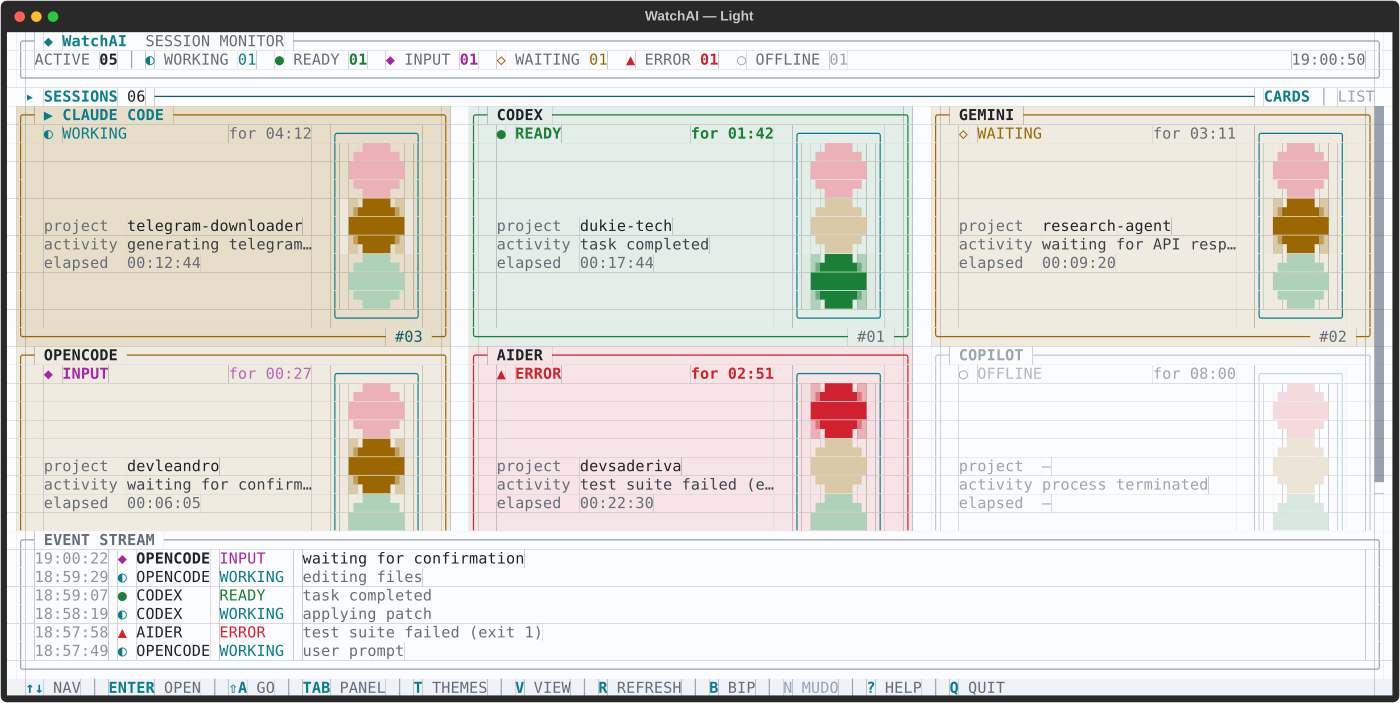
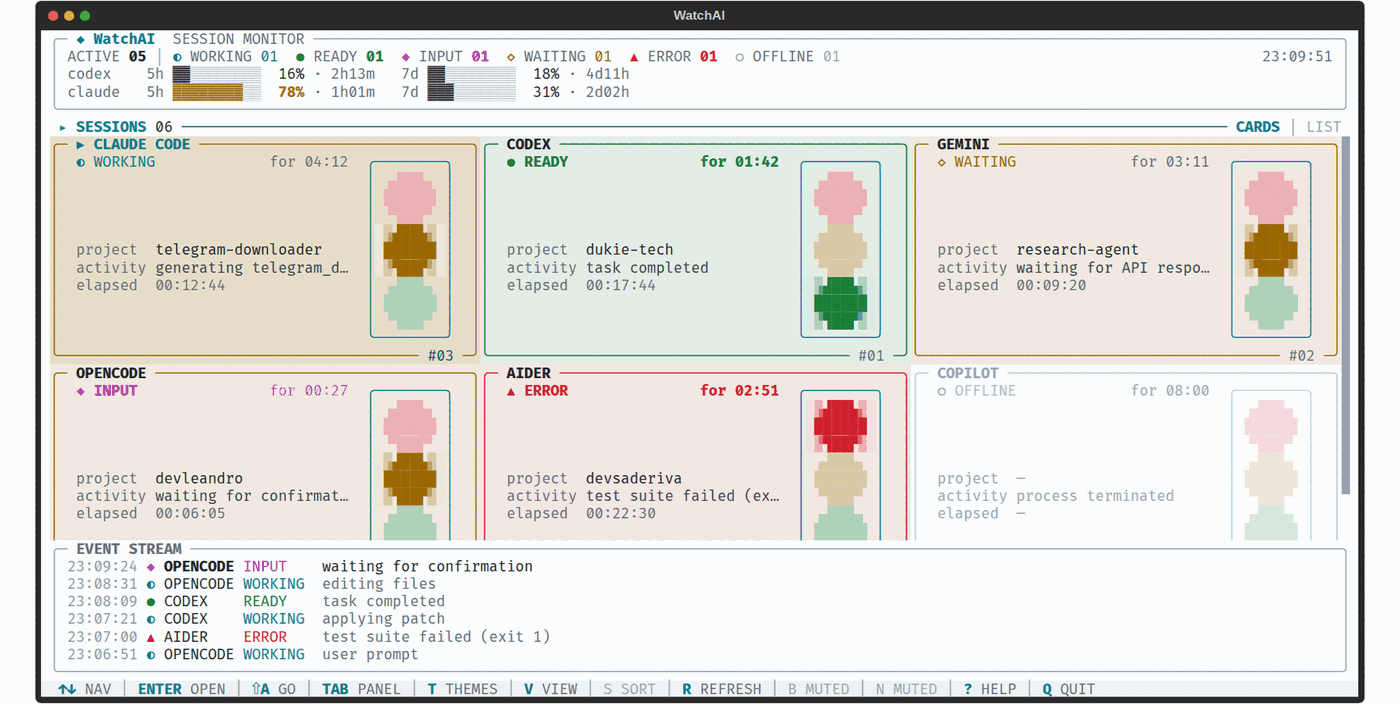
feat: a landing mostra o consumo, e as capturas voltam a dizer a verdade
**A página.** Seção nova, `03 / CONSUMO`, entre Recursos e Experimente: as duas
janelas do plano com barra, percentual e quanto falta para zerar — desenhadas em
HTML, não em imagem, para ficarem nítidas em qualquer tela. Três cartões dizem o
que é preciso saber antes de instalar: o codex não pede nada, o Claude Code pede
um comando, e nada ali é estimado. O bloco de instalação ganhou o passo 03,
`watchai --install-statusline`, marcado como opcional e com a garantia de que
statusline existente não se perde. A navegação e a descrição da página
acompanham.

**As capturas.** Todas as quatro que mostram o cabeçalho estavam velhas:
`screenshot.png` (landing, README e card de compartilhamento), as oito de tema, o
mosaico `themes.png` e o `og-card.png`. Refeitas — a principal com sessões reais,
as de tema no mock. Duas linhas a mais de cabeçalho custavam duas linhas de card,
então a captura passou de 150×36 para 150×38 e a composição voltou a ser a de
antes.

**Um defeito que a captura revelou:** a barra saía inteira numa cor só, e `▓`
contra `░` é distinção fraca demais — no PNG os dois viravam o mesmo bloco.
Agora o cheio leva a cor do uso e a calha leva a cor de borda. Vale para a TUI e
para a página.

**E o formato do Claude Code deixou de ser suposição.** Ligada a statusline aqui
(v2.1.278), o que ele manda é `five_hour`/`seven_day` com `used_percentage` e
`resets_at` — **sem `window_minutes` nenhum**. O reconhecimento de janela pelo
[…]

diff --git a/docs/index.html b/docs/index.html
@@ -4,7 +4,7 @@
     <meta charset="utf-8">
     <meta name="viewport" content="width=device-width, initial-scale=1">
     <meta name="theme-color" content="#0b111b">
-    <meta name="description" content="Conheça o WatchAI: um painel local que detecta sessões de IA em execução no seu terminal. Instale com pipx e rode em Linux, macOS ou Windows.">
+    <meta name="description" content="Conheça o WatchAI: um painel local que detecta sessões de IA em execução no seu terminal e mostra quanto já foi gasto das janelas de limite do plano. Instale com pipx e rode em Linux, macOS ou Windows.">
     <meta property="og:type" content="website">
     <meta property="og:title" content="WatchAI — suas sessões de IA em uma tela">
     <meta property="og:description" content="Um painel de terminal para acompanhar sessões locais de IA. Conheça os recursos e saiba como instalar.">
@@ -29,6 +29,7 @@
         <nav aria-label="Navegação principal">
           <a href="#visao-geral">Visão geral</a>
           <a href="#recursos">Recursos</a>
+          <a href="#consumo">Consumo</a>
           <a href="#instalacao">Instalação</a>
         </nav>
         <a class="header-github" href="https://github.com/LeandroDukievicz/WatchAI" target="_blank" rel="noopener noreferrer">Ver no GitHub <span aria-hidden="true">↗</span></a>
@@ -107,12 +108,31 @@
         </div>
       </section>
 
+
+      <section class="limits-section container" id="consumo" aria-labelledby="limits-title">
+        <div class="section-heading">
+          <div><span class="section-kicker">03 / CONSUMO</span><h2 id="limits-title">Quanto já foi gasto.<br><span>Sem adivinhar.</span></h2></div>
+          <p>As duas janelas de limite do plano — 5 horas e 7 dias — no alto da tela, com quanto falta para cada uma zerar.</p>
+        </div>
+        <figure class="limits-panel">
+          <div class="preview-bar"><span class="window-dots" aria-hidden="true"><i></i><i></i><i></i></span><span>cabeçalho do watchai</span><span>NÚMERO LIDO, NÃO ESTIMADO</span></div>
+          <pre role="img" aria-label="Duas linhas de limite no cabeçalho: codex com 16 por cento da janela de 5 horas e 18 por cento da de 7 dias; claude com 78 por cento da janela de 5 horas, em amarelo, e 31 por cento da de 7 dias."><span class="l-name">codex </span>  <span class="l-win">5h</span> <span class="l-ok">▓▓</span><span class="l-trough">░░░░░░░░</span> <span class="l-ok">16%</span> <span class="l-dim">· 2h14m</span>   <span class="l-win">7d</span> <span class="l-ok">▓▓</span><span class="l-trough">░░░░░░░░</span> <span class="l-ok">18%</span> <span class="l-dim">· 4d12h</span>
+<span class="l-name">claude</span>  <span class="l-win">5h</span> <span class="l-hot">▓▓▓▓▓▓▓▓</span><span class="l-trough">░░</span> <span class="l-hot">78%</span> <span class="l-dim">· 1h01m</span>   <span class="l-win">7d</span> <span class="l-ok">▓▓▓</span><span class="l-trough">░░░░░░░</span> <span class="l-ok">31%</span> <span class="l-dim">· 2d02h</span></pre>
+          <figcaption>Cinza até 75%, amarelo a partir daí, vermelho a partir de 90% — cor é para estado, e um limite no fim é um estado.</figcaption>
+        </figure>
+        <div class="limits-points">
+          <article><span class="feature-icon green" aria-hidden="true">◆</span><h3>Codex: nada a fazer</h3><p>O número já está no seu disco — no mesmo arquivo de sessão que o WatchAI lê para saber o estado. Instalou, apareceu.</p></article>
+          <article><span class="feature-icon cyan" aria-hidden="true">›</span><h3>Claude Code: um comando</h3><p>Ele não grava esse dado em arquivo nenhum; só entrega a scripts de <em>statusline</em>. O <code>watchai --install-statusline</code> liga essa ponta — e <strong>se você já tem uma statusline, ela não é perdida</strong>: o WatchAI mostra a saída da sua.</p></article>
+          <article><span class="feature-icon amber" aria-hidden="true">!</span><h3>Sem número, sem barra</h3><p>Nada é estimado a partir de tokens. Janela que já virou aparece com um traço em vez de um percentual velho, e dado medido há horas mostra a própria idade.</p></article>
+        </div>
+      </section>
+
       <section class="install-section" id="instalacao" aria-labelledby="install-title">
         <div class="container install-layout">
-          <div class="install-copy"><span class="section-kicker">03 / EXPERIMENTE</span><h2 id="install-title">Um comando.<br><span>Está instalado.</span></h2><p>Em qualquer computador Linux, macOS ou Windows que já tenha pipx, Git e Python 3.10 ou superior, execute o primeiro comando ao lado. O pipx baixa o WatchAI, cria um ambiente isolado e disponibiliza <code>watchai</code> no terminal.</p><p class="install-caveat">Também é necessário ter acesso à internet durante a instalação e um terminal com suporte a Unicode. Se <code>watchai</code> não aparecer depois de instalar, rode <code>pipx ensurepath</code> e abra um terminal novo. Até a publicação no PyPI, o pacote é obtido diretamente deste repositório.</p></div>
+          <div class="install-copy"><span class="section-kicker">04 / EXPERIMENTE</span><h2 id="install-title">Um comando.<br><span>Está instalado.</span></h2><p>Em qualquer computador Linux, macOS ou Windows que já tenha pipx, Git e Python 3.10 ou superior, execute o primeiro comando ao lado. O pipx baixa o WatchAI, cria um ambiente isolado e disponibiliza <code>watchai</code> no terminal. O terceiro comando é opcional e só interessa a quem usa o Claude Code.</p><p class="install-caveat">Também é necessário ter acesso à internet durante a instalação e um terminal com suporte a Unicode. Se <code>watchai</code> não aparecer depois de instalar, rode <code>pipx ensurepath</code> e abra um terminal novo. Até a publicação no PyPI, o pacote é obtido diretamente deste repositório.</p></div>
           <div class="terminal" aria-label="Comandos para instalar e executar o WatchAI">
             <div class="terminal-top"><span class="window-dots" aria-hidden="true"><i></i><i></i><i></i></span><span>terminal</span><span>Linux · macOS · Windows</span></div>
-            <div class="terminal-body"><p class="step-label">01 <span>COLE ESTE ÚNICO COMANDO PARA INSTALAR</span></p><div class="command-line"><pre><code>pipx install git+https://github.com/LeandroDukievicz/WatchAI.git</code></pre><button class="copy-command" type="button" aria-label="Copiar comando de instalação" title="Copiar comando"><svg class="copy-icon" viewBox="0 0 24 24" aria-hidden="true"><rect x="8" y="8" width="11" height="11" rx="2"></rect><path d="M16 8V6a2 2 0 0 0-2-2H6a2 2 0 0 0-2 2v8a2 2 0 0 0 2 2h2"></path></svg><svg class="check-icon" viewBox="0 0 24 24" aria-hidden="true"><path d="m5 12 4 4L19 6"></path></svg></button></div><p class="step-label">02 <span>DEPOIS, ABRA O WATCHAI</span></p><div class="command-line"><pre><code>watchai</code></pre><button class="copy-command" type="button" aria-label="Copiar comando para abrir o WatchAI" title="Copiar comando"><svg class="copy-icon" viewBox="0 0 24 24" aria-hidden="true"><rect x="8" y="8" width="11" height="11" rx="2"></rect><path d="M16 8V6a2 2 0 0 0-2-2H6a2 2 0 0 0-2 2v8a2 2 0 0 0 2 2h2"></path></svg><svg class="check-icon" viewBox="0 0 24 24" aria-hidden="true"><path d="m5 12 4 4L19 6"></path></svg></button></div></div>
+            <div class="terminal-body"><p class="step-label">01 <span>COLE ESTE ÚNICO COMANDO PARA INSTALAR</span></p><div class="command-line"><pre><code>pipx install git+https://github.com/LeandroDukievicz/WatchAI.git</code></pre><button class="copy-command" type="button" aria-label="Copiar comando de instalação" title="Copiar comando"><svg class="copy-icon" viewBox="0 0 24 24" aria-hidden="true"><rect x="8" y="8" width="11" height="11" rx="2"></rect><path d="M16 8V6a2 2 0 0 0-2-2H6a2 2 0 0 0-2 2v8a2 2 0 0 0 2 2h2"></path></svg><svg class="check-icon" viewBox="0 0 24 24" aria-hidden="true"><path d="m5 12 4 4L19 6"></path></svg></button></div><p class="step-label">02 <span>DEPOIS, ABRA O WATCHAI</span></p><div class="command-line"><pre><code>watchai</code></pre><button class="copy-command" type="button" aria-label="Copiar comando para abrir o WatchAI" title="Copiar comando"><svg class="copy-icon" viewBox="0 0 24 24" aria-hidden="true"><rect x="8" y="8" width="11" height="11" rx="2"></rect><path d="M16 8V6a2 2 0 0 0-2-2H6a2 2 0 0 0-2 2v8a2 2 0 0 0 2 2h2"></path></svg><svg class="check-icon" viewBox="0 0 24 24" aria-hidden="true"><path d="m5 12 4 4L19 6"></path></svg></button></div><p class="step-label">03 <span>OPCIONAL · SÓ PARA QUEM USA O CLAUDE CODE</span></p><div class="command-line"><pre><code>watchai --install-statusline</code></pre><button class="copy-command" type="button" aria-label="Copiar comando para ligar o consumo do Claude Code" title="Copiar comando"><svg class="copy-icon" viewBox="0 0 24 24" aria-hidden="true"><rect x="8" y="8" width="11" height="11" rx="2"></rect><path d="M16 8V6a2 2 0 0 0-2-2H6a2 2 0 0 0-2 2v8a2 2 0 0 0 2 2h2"></path></svg><svg class="check-icon" viewBox="0 0 24 24" aria-hidden="true"><path d="m5 12 4 4L19 6"></path></svg></button></div><p class="terminal-note">Liga a barra de consumo do Claude Code. Não sobrescreve a statusline que você já tiver — desfaz com <code>watchai --uninstall-statusline</code>. O codex não precisa disso.</p></div>
           </div>
         </div>
       </section>

diff --git a/docs/site.css b/docs/site.css
@@ -7,3 +7,6 @@
 @media(max-width:760px){.container{width:min(100% - 32px,560px)}.header-inner{min-height:70px;gap:15px}.header-inner nav{display:none}.header-github{margin-left:auto;padding:9px 11px;font-size:11px}.hero{display:flex;flex-direction:column;align-items:stretch;min-height:0;padding-block:72px 40px;gap:5px}.hero h1{font-size:clamp(49px,11vw,72px)}.hero-art{height:390px;width:100%;transform:scale(.74);margin-block:-25px}.orbit-two{width:450px;height:450px}.hero-meta{gap:10px 16px}.section-heading{display:block}.section-heading>p{margin-top:15px}.preview-section,.features,.install-section{padding-block:70px}.feature-grid{gap:12px}.themes-showcase .themes-copy{display:block}.themes-showcase .themes-copy p{margin-top:15px}.theme-gallery{grid-template-columns:1fr}.install-layout{display:block}.terminal{margin-top:40px}.closing{padding-block:75px}.footer-inner{min-height:140px;flex-wrap:wrap;justify-content:space-between;gap:10px}.site-footer p{order:3;flex-basis:100%;margin:0 0 22px}}
 @media(max-width:500px){.brand{font-size:19px}.brand-mark{width:42px;height:32px}.hero-lockup img{width:46px;height:35px}.hero-lockup .wordmark{font-size:33px}.hero-art{transform:scale(.65);margin-block:-55px}.hero-actions{align-items:stretch}.hero-actions .button{flex:1 1 100%}.preview-bar>span:last-child{display:none}.truth-note{align-items:flex-start;padding:15px}.feature-grid{grid-template-columns:1fr}.feature-card{min-height:auto}.themes-panel,.themes-showcase{padding:20px}.theme-shot figcaption{align-items:flex-start;flex-direction:column;gap:4px}.theme-shot figcaption span{text-align:left}.terminal-body{padding:22px 18px 28px}.terminal pre{font-size:11px}.install-copy h2{font-size:47px}}
 @media(prefers-reduced-motion:reduce){html{scroll-behavior:auto}*,*:before,*:after{transition-duration:.01ms!important;animation-duration:.01ms!important}}
+.limits-section{padding-block:0 105px}.limits-section h2 span{color:var(--cyan)}.limits-panel{overflow:hidden;border:1px solid #395165;border-radius:12px;background:#080c13;box-shadow:0 24px 70px #0008}.limits-panel pre{overflow-x:auto;margin:0;padding:30px 26px;color:var(--text);font:14px/2.1 ui-monospace,SFMono-Regular,Consolas,"Liberation Mono",monospace;white-space:pre}.limits-panel .l-name{color:#8fa9bc}.limits-panel .l-win{color:#8fa9bc}.limits-panel .l-dim{color:#6f8a9d}.limits-panel .l-ok{color:var(--text)}.limits-panel .l-trough{color:#2f4a5f}.limits-panel .l-hot{color:var(--amber);font-weight:700}.limits-panel figcaption{padding:13px 18px;color:#8fa9bc;font-size:12px;border-top:1px solid #27394b}.limits-points{display:grid;grid-template-columns:repeat(3,1fr);gap:14px;margin-top:20px}.limits-points article{padding:24px;border:1px solid var(--line);border-radius:11px;background:linear-gradient(145deg,#152332,#0e1824)}.limits-points h3{font-size:16px;letter-spacing:-.025em;margin-top:20px}.limits-points p{font-size:13px;line-height:1.65;color:var(--muted);margin-top:10px}.limits-points code,.terminal-note code{padding:1px 5px;border-radius:4px;background:#1b3442;color:var(--cyan);font:12px ui-monospace,SFMono-Regular,Consolas,monospace}.terminal-note{margin-top:22px;color:#8da9bb;font-size:12px;line-height:1.65}
+@media(max-width:1000px){.limits-points{grid-template-columns:1fr}.limits-panel pre{font-size:12px;padding:22px 18px}}
+@media(max-width:500px){.limits-panel pre{font-size:10px;padding:18px 14px}}

diff --git a/src/watchai/widgets/header.py b/src/watchai/widgets/header.py
@@ -48,17 +48,23 @@ LARGURA_COMPLETA = 96
 LARGURA_MEDIA = 58
 
 
-def barra(usado: float, largura: int = BARRA) -> str:
-    """`▓▓░░░░░░░░` — o percentual em blocos.
+def blocos(usado: float, largura: int = BARRA) -> tuple[int, int]:
+    """Quantos blocos cheios e quantos vazios, para este percentual.
 
     Qualquer uso acima de zero acende **pelo menos um** bloco: barra vazia com
     número diferente de zero ao lado é a barra mentindo. Quem dá a precisão é o
     número; a barra dá a ordem de grandeza.
     """
     if usado <= 0:
-        return VAZIO * largura
+        return 0, largura
     cheios = max(1, min(largura, round(usado / 100 * largura)))
-    return CHEIO * cheios + VAZIO * (largura - cheios)
+    return cheios, largura - cheios
+
+
+def barra(usado: float, largura: int = BARRA) -> str:
+    """`▓▓░░░░░░░░` — o percentual em blocos, como texto."""
+    cheios, vazios = blocos(usado, largura)
+    return CHEIO * cheios + VAZIO * vazios
 
 
 def cor_do_uso(usado: float) -> str:
@@ -208,7 +214,12 @@ class AppHeader(Widget):
                 continue
             cor = cor_do_uso(janela.usado)
             if largura:
-                linha.append(barra(janela.usado, largura), Style(color=cor))
+                # Cheio e vazio em cores diferentes. Só o glifo (▓ contra ░)
+                # separando os dois é distinção fraca: com a mesma cor, a barra
+                # vira um bloco só — visível na captura do README antes disto.
+                cheios, vazios = blocos(janela.usado, largura)
+                linha.append(CHEIO * cheios, Style(color=cor))
+                linha.append(VAZIO * vazios, Style(color=palette.line_hi))
                 linha.append(" ")
             linha.append(f"{janela.usado:3.0f}%", Style(color=cor, bold=janela.usado >= APERTA))
             falta = janela.falta(agora)

diff --git a/src/watchai/providers/limits.py b/src/watchai/providers/limits.py
@@ -86,12 +86,16 @@ CAMPOS_USADO = ("used_percent", "used_percentage", "utilization", "used")
 CAMPOS_MINUTOS = ("window_minutes", "window_size_minutes", "window")
 CAMPOS_RESET = ("resets_at", "reset_at", "resets_at_seconds", "resetsAt")
 
-# Tamanho suposto quando o bloco **não** traz `window_minutes`. Quem classifica
-# é sempre o tamanho, e o codex informa o dele; isto é para o Claude Code, cujo
-# campo é novo e do qual o changelog promete só as duas janelas ("5-hour and
-# 7-day windows with `used_percentage` and `resets_at`") — se ele nomear em vez
-# de medir, o nome ainda diz qual é qual. Nome desconhecido e sem tamanho fica
-# de fora: janela que não se sabe medir não vira barra.
+# Tamanho suposto quando o bloco **não** traz `window_minutes`. Deixou de ser
+# precaução e virou o caminho principal do Claude Code: ligada a statusline nesta
+# máquina (2026-09-29, v2.1.278), o que ele manda é
+#
+#     "rate_limits": {"five_hour":  {"used_percentage": 11, "resets_at": 1790749800},
+#                     "seven_day":  {"used_percentage": 26, "resets_at": 1791201600}}
+#
+# — sem `window_minutes` nenhum. Só o codex informa o tamanho. Sem este mapa a
+# barra do Claude não existiria, e falharia calada. Nome desconhecido e sem
+# tamanho continua fora: janela que não se sabe medir não vira barra.
 MINUTOS_POR_NOME = {
     "primary": 300,
     "five_hour": 300,

diff --git a/tests/test_limits.py b/tests/test_limits.py
@@ -170,8 +170,9 @@ def test_o_nome_do_campo_do_claude_tambem_vale():
 
 
 def test_janela_sem_tamanho_e_reconhecida_pelo_nome():
-    """O campo do Claude é novo e o changelog promete só as duas janelas. Se ele
-    nomear em vez de medir, o nome ainda diz qual é qual."""
+    """**É o formato real do Claude Code**, confirmado ao ligar a statusline na
+    v2.1.278: ele manda `five_hour`/`seven_day` sem `window_minutes` nenhum. Sem
+    reconhecer pelo nome, a barra do Claude não existiria — e falharia calada."""
     achado = consumo("claude", {
         "five_hour": {"used_percentage": 8, "resets_at": AGORA + 600},
         "seven_day": {"used_percentage": 31, "resets_at": AGORA + 86400},
@@ -312,6 +313,17 @@ def test_sem_numero_nenhum_a_lista_vem_vazia(tmp_path):
 
 
 # ---- a barra ------------------------------------------------------------------
+
+
+def test_cheio_e_vazio_sao_contados_separados():
+    """A tela pinta os dois com cores diferentes: só o glifo separando ▓ de ░ é
+    distinção fraca demais, e numa captura os dois viram o mesmo bloco."""
+    from watchai.widgets.header import blocos
+
+    assert blocos(0.0) == (0, 10)
+    assert blocos(50.0) == (5, 5)
+    assert blocos(100.0) == (10, 0)
+    assert blocos(0.4) == (1, 9)  # uso acima de zero sempre acende um
 
 
 def test_a_barra_nunca_fica_vazia_com_numero_ao_lado():

diff --git a/MILESTONE.md b/MILESTONE.md
@@ -293,6 +293,12 @@ mudanças de rumo; o que apareceu na implementação está marcado abaixo.
       Claude Code), e a janela sem `window_minutes` é reconhecida pelo nome
       (`primary`/`five_hour`…). Nome desconhecido **e** sem tamanho fica de fora:
       rotular de 5 h o que pode ser de outro tamanho é inventar
+- [x] **O formato do Claude Code, confirmado** em 2026-09-29 ao ligar a
+      statusline (v2.1.278) — era suposição e virou fato:
+      `{"five_hour": {"used_percentage": 11, "resets_at": …}, "seven_day": {…}}`,
+      **sem `window_minutes`**. O reconhecimento por nome deixou de ser precaução
+      e passou a ser o caminho principal: sem ele a barra do Claude não existiria,
+      e falharia calada
 - [x] **Validação de faixa**, já que o número não é conferível: percentual em
       [0, 100], janela positiva e plausível, reset num tempo que existe (aceita
       milissegundos). Reset ruim custa o "zera em", não a barra

diff --git a/README.md b/README.md
@@ -333,7 +333,7 @@ número uma vez por sessão.
 | Agente | De onde | Precisa de você? |
 |---|---|---|
 | **codex** | do mesmo `rollout-*.jsonl` que o WatchAI já lê — o codex grava ali um bloco `rate_limits` a cada resposta | **não**, funciona de saída |
-| **Claude Code** | ele **não grava** limite em arquivo nenhum, mas **empurra** o dado para scripts de statusline. Quem recebe e guarda é o `watchai --statusline` | **sim**, um comando: `watchai --install-statusline` |
+| **Claude Code** | ele **não grava** limite em arquivo nenhum, mas **empurra** o dado para scripts de statusline (`five_hour` e `seven_day`, com `used_percentage` e `resets_at`). Quem recebe e guarda é o `watchai --statusline` | **sim**, um comando: `watchai --install-statusline` |
 
 Para ligar a do Claude Code, **um comando**:
 
